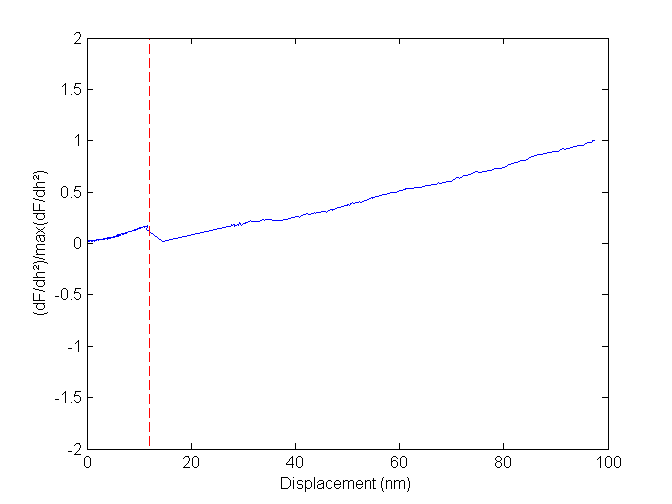
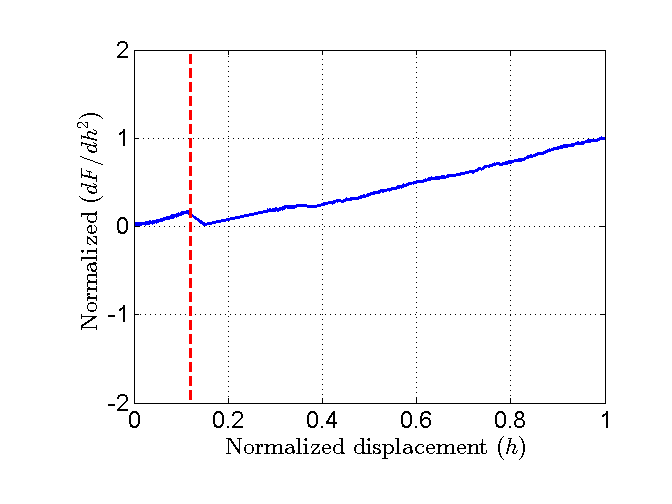
updated doc for pop in detection

diff --git a/doc/popin_detection.rst b/doc/popin_detection.rst
@@ -46,10 +46,12 @@ In the PopIn Matlab toolbox, numerous criteria based on the function `diff <http
     * Criterion 6 - Derivative of the load-displacement curve: :math:`(dF/dh^{2}) = ((diff(F)/diff(h))/diff(h))`
 
 The 6th criterion is based on the one proposed by Malzbender et al. [#Malzbender_2001]_.
+Malzbender proposed to plot the 6th criterion as a function of :math:`h^{2}` and not as a function of :math:`h`, like it is proposed in the PopIn toolbox.
 
-When a pop-in occurs, a peak is observed on the plot of differences or derivatives. Peaks anaysis is performed using the function `peakdet <https://github.com/DavidMercier/PopIn/blob/master/third_party_codes/peakdet.m>`_ released by E. Billauer to the public domain (http://www.billauer.co.il/peakdet.html). Only positive peaks are counted. A point is considered a maximum peak if it has the maximal value, and was preceded (to the left) by a value lower by a given delta. The delta value can be set by user from the GUI.
+When a pop-in occurs, a peak is observed on the plot of differences or derivatives.
+Peaks anaysis is performed using the function `peakdet <https://github.com/DavidMercier/PopIn/blob/master/third_party_codes/peakdet.m>`_ released by E. Billauer to the public domain (http://www.billauer.co.il/peakdet.html). Only positive peaks are counted. A point is considered a maximum peak if it has the maximal value, and was preceded (to the left) by a value lower by a given delta. The delta value can be set by user from the GUI.
 
-Plot of the different criteria
+Plots of the different criteria normalized by its maximum as a function of normalized indentation displacement (:math:`h/max(h)`).
 
 .. figure:: ./_pictures/load-disp_curve_popin_exp.png
    :scale: 75 %
